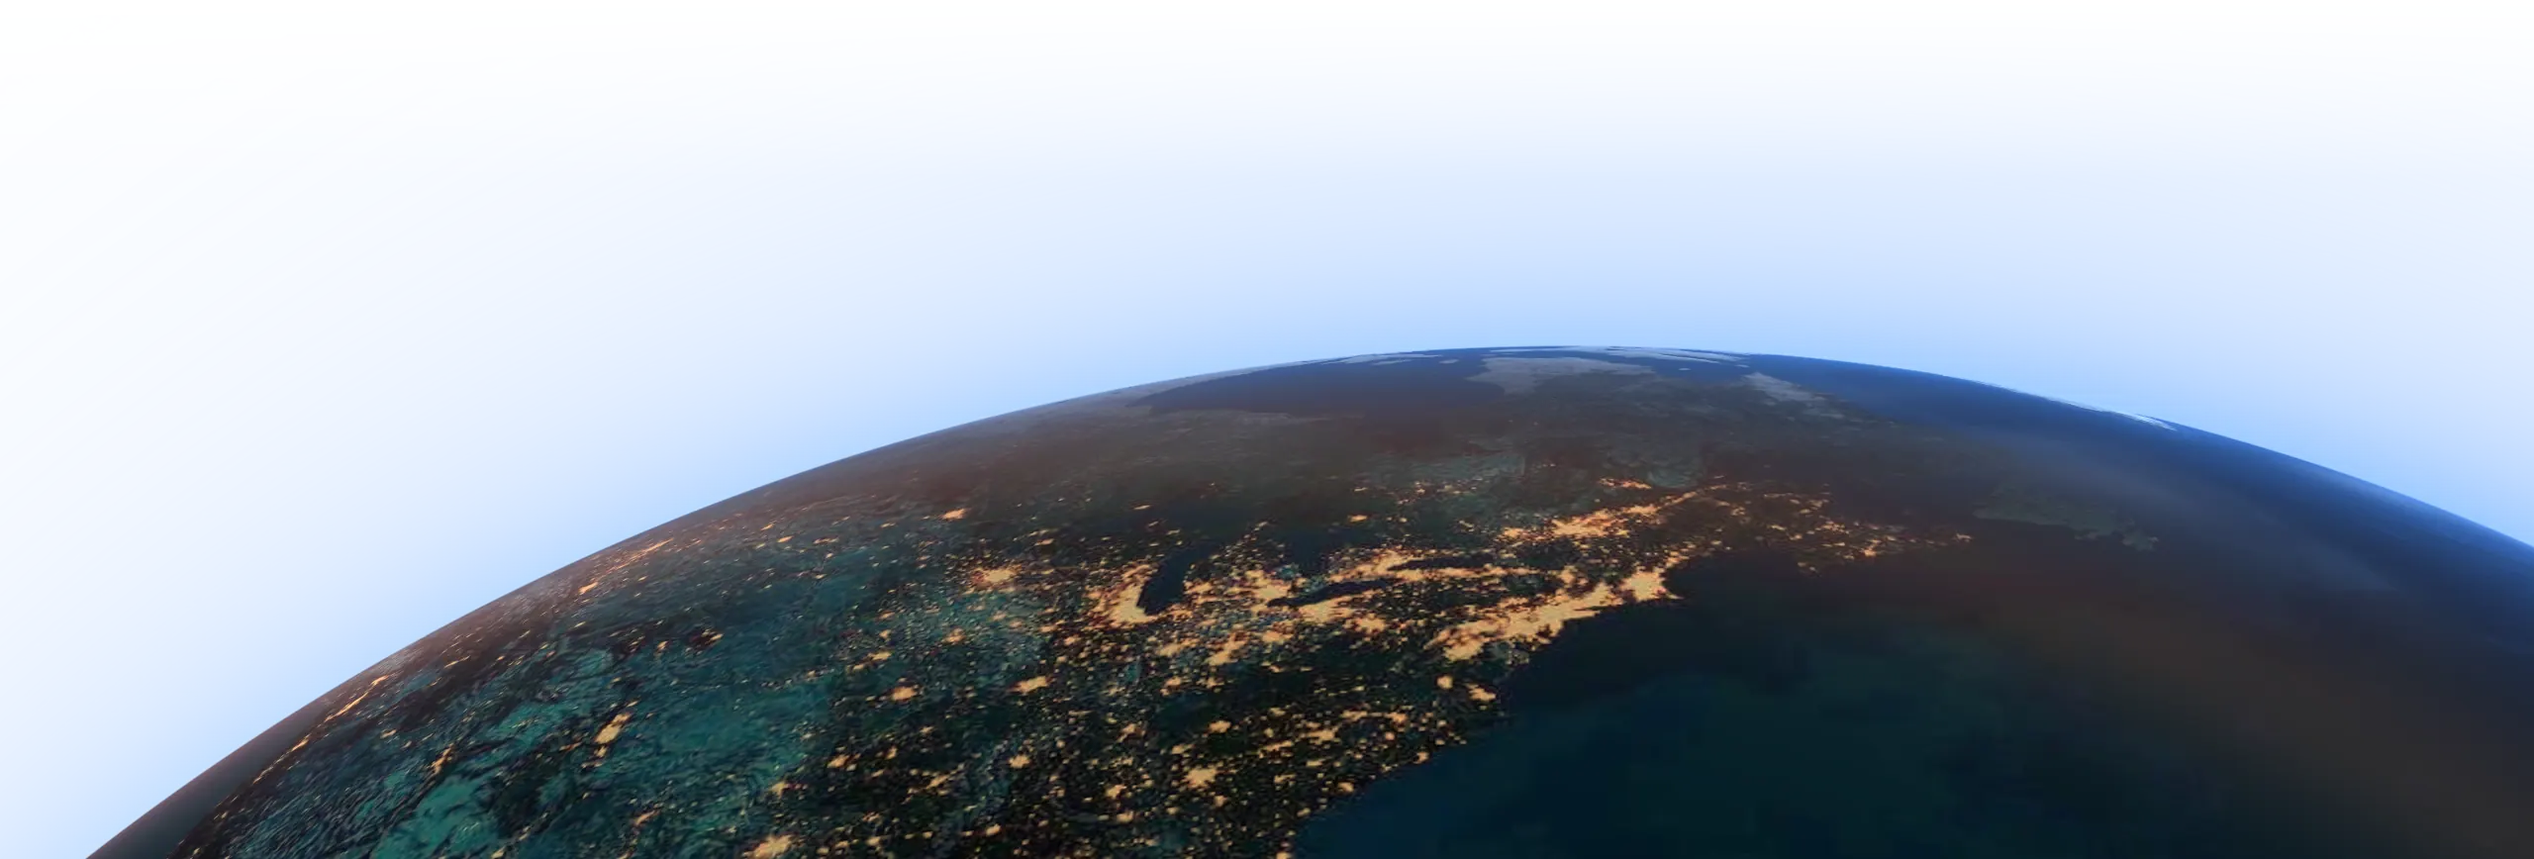
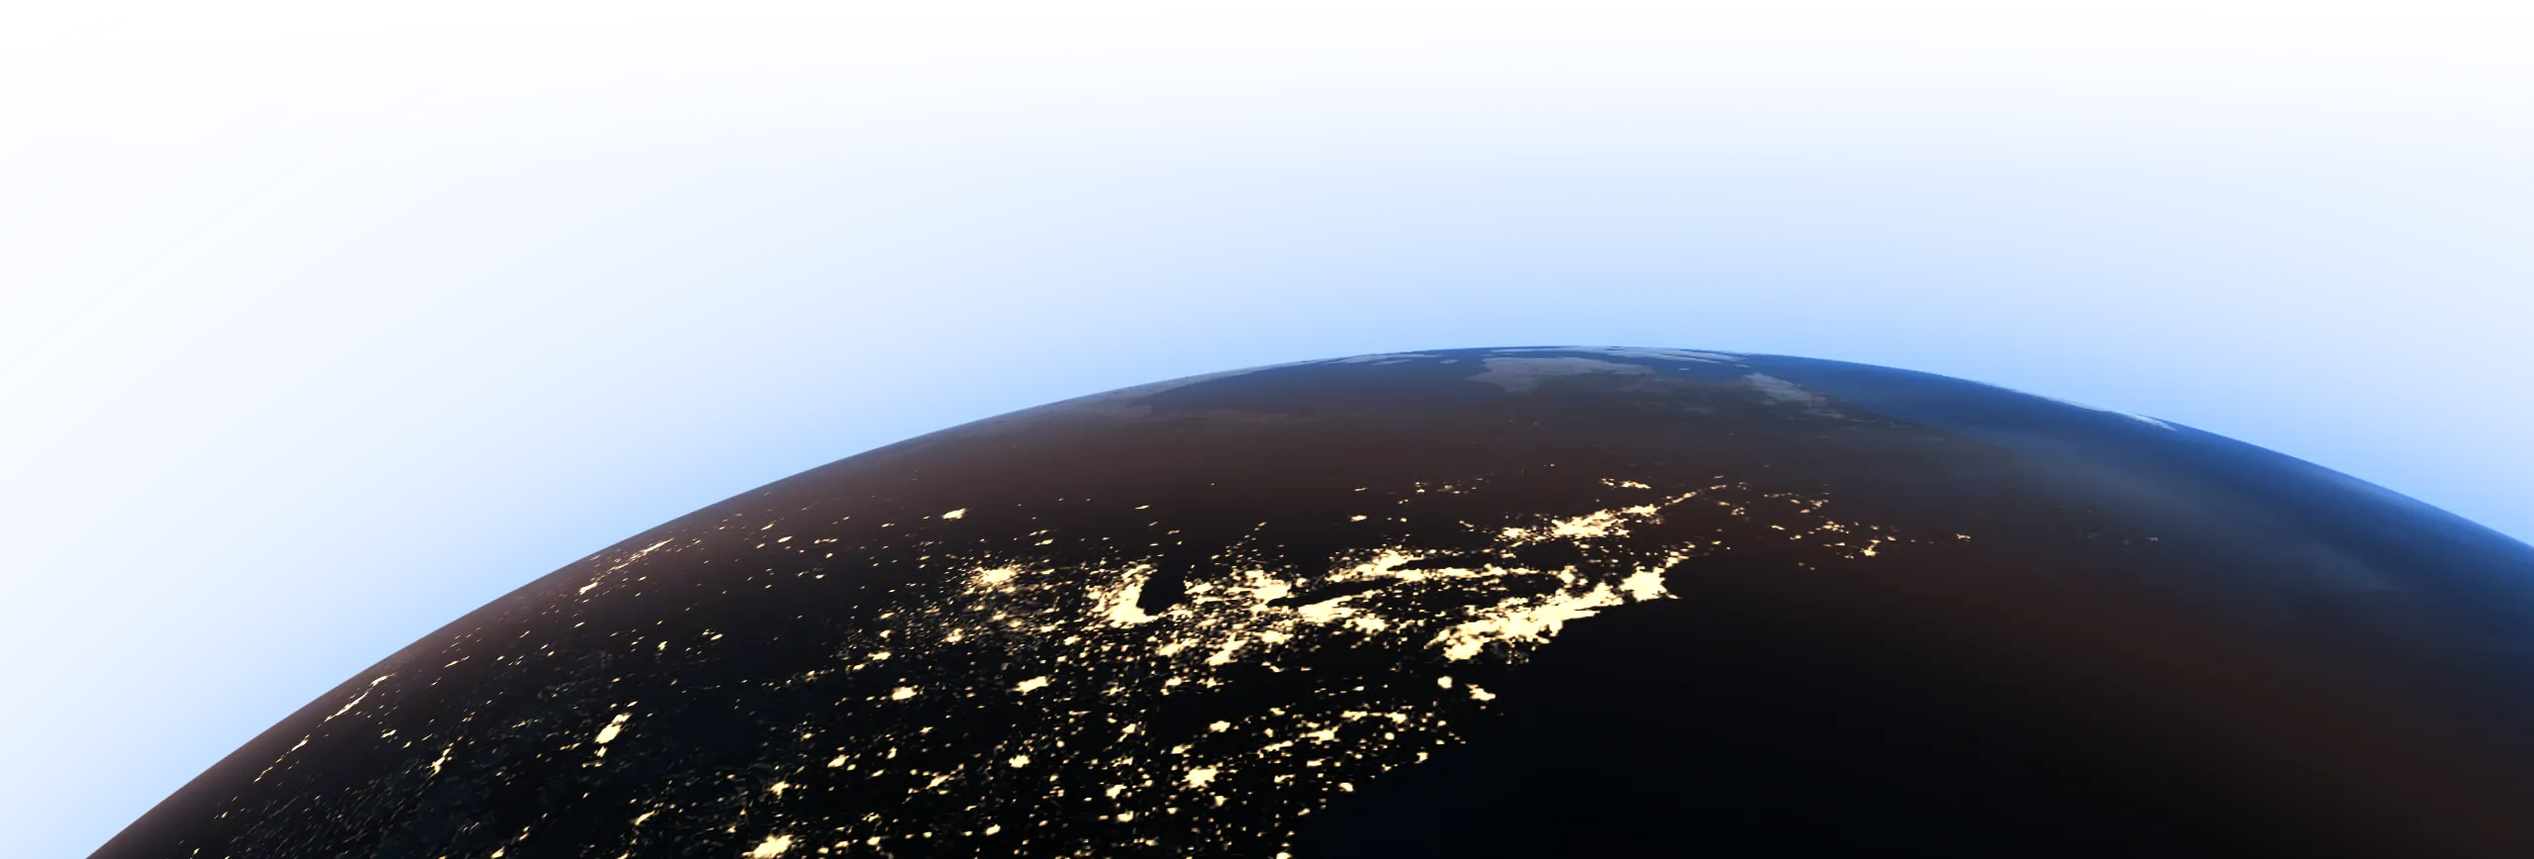
Open on the whole of North America, with Montréal's arcs across Canada (#29)
* New home page: engraved paper, live guilloche, one dollar drawn by the scroll; ÉPICENTRE on the site and the resume

* index.html is now written whole by scripts/home.py on its own assets/home.css and assets/home.js:
  a guilloche rosette engraved live behind the name (follows the pointer), a ticker of every
  project's headline figure, the dollar from 1960 drawn as the reader scrolls with the market's
  real falls marked, one row per project with an engraved seal and a figure that counts up,
  the four rules, a timeline, and contact. Bodoni Moda and Public Sans, self-hosted (OFL).
  Light and dark themes; full page without JavaScript; final frame under reduced motion.
* ÉPICENTRE (poly-datathon-2026, PolyFinances Datathon 2026) joins the site through a new
  data/projects.json "more" list, its headline figure citing docs/review_technical.md.
* Resume: ÉPICENTRE added to both versions; certifications folded into Education to keep one page.
* check_site.py checks the new home page (sections, the extra project, version stamps, reduced
  motion); check_layout.py checks that the pinned chart fits at all 14 screen sizes.
* voyage.html and the project pages are unchanged.

Claude-Session: https://claude.ai/code/session_01VVdSRZsUbLxHJtxqDuHw5E

* Whole site redesigned: mission control over a live Earth

* Home page (scripts/home.py, assets/home.css, assets/home.js): a dotted WebGL Earth built from
[…]

Changed region(s): [[0.0625, 0.5288, 0.9375, 1.0]]

diff --git a/assets/home.js b/assets/home.js
@@ -30,12 +30,16 @@
      share of the screen's shorter side. horizon: the centre sits below the screen and only the curve of the
      Earth shows. fx: what is drawn over it. spin: degrees a second it keeps turning on its own. */
   const MTL = [45.5, -73.57], CAIRO = [30.04, 31.24];
+  /* where Canada's pension funds and asset managers work: lat, lon, name, label side, label nudge */
+  const HUBS = [[43.65, -79.38, "Toronto", -1, 14], [49.28, -123.12, "Vancouver", -1, 0],
+    [51.05, -114.07, "Calgary", 1, 0], [44.65, -63.57, "Halifax", 1, 14]];
   const PLACES = {
     fed: [38.9, -77.04, "Federal Reserve"], boc: [45.42, -75.7, "Bank of Canada"], opec: [48.21, 16.37, "OPEC, Vienna"],
   };
   const wide = () => window.innerWidth > 1000;
+  const tall = () => window.innerHeight > window.innerWidth * 0.8;
   const SCENES = {
-    horizon:   { lon: -73.6, lat: -22, x: 0.5, y: 0, r: 0, horizon: 1, fx: { home: 1 }, spin: 0 },
+    horizon:   { lon: -90, lat: 38, mlat: 12, x: 0.7, y: 0.54, r: 0.4, fx: { home: 1, open: 1 }, spin: 0, open: 1 },
     rise:      { lon: -40, lat: 18, x: 0.72, y: 0.5, r: 0.4, fx: {}, spin: 4 },
     dpc:       { lon: -97, lat: 36, x: 0.7, y: 0.5, r: 0.44, fx: { dpc: 1 }, spin: 0 },
     pension:   { lon: -30, lat: 22, x: 0.27, y: 0.5, r: 0.3, fx: { futures: 1 }, spin: 2, flip: 1 },
@@ -54,6 +58,8 @@
   /* Where the sun is, as seen by the reader: on the right for the missions (day on the right, city lights on
      the left, under the words); behind the Earth's edge for the opening and the close, a dawn along the curve. */
   const SUN = [0.86, 0.32, 0.1], SUN_L = [-0.86, 0.32, 0.1], DAWN = [0.42, 0.3, -0.86], NIGHT = [-0.9, 0.25, -0.35];
+  /* the opening: the whole of North America in daylight, the evening reaching the east coast, its cities lit */
+  const OPEN = [-0.88, 0.38, 0.0];
   const view = { lon: -73.6, lat: -12, cx: 0, cy: 0, R: 0, dim: 1, fx: {}, spin: 0, sun: SUN.slice() };
   const want = { lon: -73.6, lat: -12, cx: 0, cy: 0, R: 0, dim: 1, fx: {}, sun: SUN.slice() };
   let W = 0, H = 0, dpr = 1, gl = null, fxc = null, g = null, prog = null, back = null, buf = null, spinLon = 0;
@@ -62,6 +68,11 @@
 
   function place(s) {
     const m = Math.min(W, H);
+    if (s.open && !wide()) {
+      if (!tall()) return { cx: W * 0.74, cy: H * 0.55, R: H * 0.44 };  /* a small landscape window: the Earth beside the words */
+      const R = Math.min(W * 0.62, H * 0.3);                              /* a phone: North America rises from the foot of the screen */
+      return { cx: W * 0.5, cy: H - R * 0.15, R };
+    }
     if (s.horizon) {
       const R = Math.max(W, H) * (wide() ? 0.95 : 1.5);
       return { cx: W * (wide() ? 0.62 : 0.5), cy: H * (wide() ? 0.64 : 0.7) + R, R };
@@ -160,12 +171,13 @@
           cl=smoothstep(.46,.76,cl)*(.6+.4*abs(w.y))*.92;
           float spec=pow(max(dot(n,normalize(L+vec3(0.,0.,1.))),0.),320.)*water*day*(1.-cl);
           vec3 lit=cDay*(.04+1.05*lit0)+vec3(1.,.92,.8)*spec*.2;
-          vec3 lights=cNight*vec3(1.,.8,.52)*1.9*(1.-day)*(1.-cl*.75);
+          /* city lights only: the red channel holds the lights, the picture's blue-green landscape stays faint */
+          vec3 lights=(vec3(1.,.76,.48)*smoothstep(.05,.5,cNight.r)*1.9+cNight*.14)*(1.-day)*(1.-cl*.75);
           vec3 surface=lit*day+lights+cDay*.018;
           vec3 cloudCol=vec3(.92,.95,1.)*(.03+1.08*max(ndl,0.));
           surface=mix(surface,cloudCol,cl*day+cl*.12*(1.-day));
           float band=exp(-pow(ndl/.075,2.));
-          surface+=vec3(1.,.45,.16)*band*.085*(1.-cl*.5);
+          surface+=vec3(1.,.45,.16)*band*.05*(1.-cl*.5);
           photo=mix(base,surface,T);
         }
         float rim=pow(1.-n.z,2.6);
@@ -394,7 +406,17 @@
     }
     g.stroke();
   }
-  function marker(M, lat, lon, label, w, t, side = 1) {
+  function arc(M, from, to, rise) {
+    const a = unit(...from), b = unit(...to);
+    const omega = Math.acos(clamp(a[0] * b[0] + a[1] * b[1] + a[2] * b[2], -1, 1)), so = Math.sin(omega);
+    const pts = [];
+    for (let k = 0; k <= 64; k += 1) {
+      const s = k / 64, w1 = Math.sin((1 - s) * omega) / so, w2 = Math.sin(s * omega) / so, h = 1 + rise * omega * Math.sin(Math.PI * s);
+      pts.push(project(M, [(w1 * a[0] + w2 * b[0]) * h, (w1 * a[1] + w2 * b[1]) * h, (w1 * a[2] + w2 * b[2]) * h]));
+    }
+    return pts;
+  }
+  function marker(M, lat, lon, label, w, t, side = 1, dy = 0) {
     const p = project(M, unit(lat, lon));
     if (p.z < 0.08 || w < 0.02) return;
     const a = w * clamp(p.z * 3);
@@ -407,7 +429,7 @@
       g.font = "500 11px Barlow, Arial, sans-serif";
       g.fillStyle = `rgba(244,245,247,${a})`;
       g.textAlign = side > 0 ? "left" : "right";
-      g.fillText(label.toUpperCase().split("").join(String.fromCharCode(8202)), p.x + side * 14, p.y + 4);
+      g.fillText(label.toUpperCase().split("").join(String.fromCharCode(8202)), p.x + side * 14, p.y + 4 + dy);
     }
   }
 
@@ -429,9 +451,9 @@
     g.restore();
     const f = view.fx;
     if (!gl && earth.ready) draw2D(M, view.dim);
-    // Montréal, home, and a satellite crossing above the curve of the Earth
+    // Montréal, home, and a satellite crossing over the Earth
     if (f.home > 0.02) {
-      marker(M, MTL[0], MTL[1], "Montréal", f.home, t);
+      marker(M, MTL[0], MTL[1], "Montréal", f.home, t, 1, -8);
       const inc = 0.9, a0 = (still ? 0.4 : t * 0.045) % (Math.PI * 2);
       const at = (a) => { const r = 1.035; const p = [Math.cos(a) * r, Math.sin(a) * Math.sin(inc) * r, Math.sin(a) * Math.cos(inc) * r]; return { x: view.cx + p[0] * view.R, y: view.cy - p[1] * view.R, hide: p[2] < 0 && Math.hypot(p[0], p[1]) < 1 }; };
       const Mx = rotation(view.lat * 0.2, 0);
@@ -443,6 +465,18 @@
         g.fillStyle = `rgba(220,235,255,${f.home * (1 - k / 40) * (k ? 0.35 : 1)})`;
         g.beginPath(); g.arc(p.x, p.y, k ? 1 : 1.8, 0, Math.PI * 2); g.fill();
       }
+    }
+    // the opening: from Montréal to every city that runs Canada's pensions and investments
+    if (f.open > 0.02) {
+      HUBS.forEach(([lat, lon, name, side, dy], i) => {
+        const pts = arc(M, MTL, [lat, lon], 0.14);
+        g.strokeStyle = `rgba(142,197,255,${0.75 * f.open})`; g.lineWidth = 1.4; strokeFront(pts, 0.05);
+        if (!still) {
+          const k = Math.floor((((t * 0.18) + i * 0.21) % 1) * (pts.length - 1)), q = pts[k];
+          if (q.z > 0.05) { g.fillStyle = `rgba(244,245,247,${0.9 * f.open})`; g.beginPath(); g.arc(q.x, q.y, 2.2, 0, Math.PI * 2); g.fill(); }
+        }
+        marker(M, lat, lon, name, f.open, t + i * 0.37, side, dy);
+      });
     }
     if (f.dpc > 0.02) marker(M, 39.5, -98.35, "30 US industries, 1960 to 2026", f.dpc, t);
     // World Shock Lab: rings leave the three announcers
@@ -546,13 +580,15 @@
     const A = SCENES[a.name] || SCENES.rise, B = SCENES[b.name] || SCENES.rise;
     const pa = place(A), pb = place(B);
     let dl = ((B.lon - A.lon + 540) % 360) - 180;
-    want.lon = A.lon + dl * t; want.lat = lerp(A.lat, B.lat, t);
+    const la = (S) => (!wide() && tall() && S.mlat != null ? S.mlat : S.lat);
+    want.lon = A.lon + dl * t; want.lat = lerp(la(A), la(B), t);
     want.cx = lerp(pa.cx, pb.cx, t); want.cy = lerp(pa.cy, pb.cy, t); want.R = lerp(pa.R, pb.R, t);
-    want.dim = lerp(A.dim || 1, B.dim || 1, t) * (wide() || A.horizon || B.horizon ? 1 : 0.62);
+    want.dim = lerp(A.dim || 1, B.dim || 1, t) * (wide() || A.horizon || B.horizon || A.open || B.open ? 1 : 0.62);
     want.spin = lerp(A.spin, B.spin, t);
     want.flip = wide() ? lerp(A.flip || 0, B.flip || 0, t) : 0;
-    want.hz = lerp(A.horizon ? 1 : 0, B.horizon ? 1 : 0, t);
-    const sun = (S) => (S.horizon ? DAWN : S.flip && wide() ? SUN_L : SUN);  // the night side always sits under the words
+    const hz = (S) => (S.horizon ? 1 : S.open ? 0.55 : 0);
+    want.hz = lerp(hz(A), hz(B), t);
+    const sun = (S) => (S.open ? OPEN : S.horizon ? DAWN : S.flip && wide() ? SUN_L : SUN);  // the night side always sits under the words
     const sa = sun(A), sb = sun(B);
     want.sun = [0, 1, 2].map((i) => lerp(sa[i], sb[i], t));
     const fx = {};
@@ -560,7 +596,8 @@
     want.fx = fx;
   }
 
-  /* The opening shot: the camera starts over Montréal at night and pulls back to the curve of the Earth. */
+  /* The opening shot: the camera starts over Montréal at night and pulls back until the whole of Canada and the
+     United States is in view, at dusk, with an arc from Montréal to each city where Canada's pensions are run. */
   let last = performance.now(), first = true, introFrom = 0;
   function frame(now) {
     const dt = Math.min(0.05, (now - last) / 1000); last = now;

diff --git a/index.html b/index.html
@@ -31,10 +31,10 @@
   <link rel="preload" href="assets/fonts/barlow-600.woff2" as="font" type="font/woff2" crossorigin>
   <link rel="preload" href="assets/fonts/barlow-400.woff2" as="font" type="font/woff2" crossorigin>
   <link rel="preload" href="assets/earth.bin" as="fetch" crossorigin>
-  <link rel="stylesheet" href="assets/home.css?v=21dad2150c">
+  <link rel="stylesheet" href="assets/home.css?v=187cd8b21e">
   <script>document.documentElement.classList.replace("no-js","js")</script>
   <script src="assets/vendor/lenis.min.js" defer></script>
-  <script src="assets/home.js?v=21dad2150c" defer></script>
+  <script src="assets/home.js?v=187cd8b21e" defer></script>
   <script type="application/ld+json">
   {
     "@context": "https://schema.org",

diff --git a/scripts/make_og_home.py b/scripts/make_og_home.py
@@ -1,8 +1,8 @@
 #!/usr/bin/env python3
 """Draw the home page's share image (assets/og.png, 1200x630) from the home page itself.
 
-The card is the opening of index.html at 1200x630 once the camera has pulled back from Montréal: the
-name, the line under it, and the curve of the Earth at night. The navigation, buttons and countdown are
+The card is the opening of index.html at 1200x630, at the end of the pull-back from Montréal: the
+name, the line under it, and North America at dusk with Montréal's arcs across Canada. The navigation, buttons and countdown are
 hidden for the card. Nothing on it is typed here, so it never says something the page does not.
 
 Run:  python3 scripts/make_og_home.py      (needs Playwright's Chromium; set CHROMIUM to use one already installed)
@@ -36,10 +36,10 @@ def main() -> None:
         if os.environ.get("CHROMIUM"):
             launch["executable_path"] = os.environ["CHROMIUM"]
         browser = p.chromium.launch(**launch)
-        page = browser.new_page(viewport={"width": 1200, "height": 630}, device_scale_factor=1)
+        page = browser.new_page(viewport={"width": 1200, "height": 630}, device_scale_factor=1, reduced_motion="reduce")
         page.goto(f"{base}/", wait_until="networkidle")
         page.add_style_tag(content=CARD)
-        page.wait_for_timeout(9000)  # the opening shot: from Montréal at night back to the curve of the Earth
+        page.wait_for_timeout(6000)  # the pictures arrive; under reduced motion the Earth is drawn at the end of the opening shot
         out = ROOT / "assets" / "og.png"
         page.screenshot(path=str(out))
         browser.close()

diff --git a/scripts/make_limb.py b/scripts/make_limb.py
@@ -1,7 +1,7 @@
 #!/usr/bin/env python3
 """Draw assets/earth/limb.webp: the curve of the Earth at night, for the foot of every project page.
 
-It is the home page's own Earth (NASA imagery, drawn by assets/home.js) at the opening shot, photographed
+It is the home page's own Earth (NASA imagery, drawn by assets/home.js) at its closing shot, photographed
 in a wide window with everything else hidden and the sky left transparent, then cropped to the band where
 the Earth is. The project pages lay it along the bottom of the screen (assets/site.css), so the whole
 site stands on the same planet.
@@ -41,6 +41,7 @@ def main() -> None:
         page = browser.new_page(viewport={"width": W, "height": H}, device_scale_factor=1, reduced_motion="reduce")
         page.goto(f"{base}/", wait_until="networkidle")
         page.add_style_tag(content=HIDE)
+        page.evaluate("window.scrollTo(0, document.documentElement.scrollHeight)")  # the close: the horizon at dawn
         page.wait_for_timeout(6000)  # the pictures arrive; under reduced motion the Earth is drawn in its final place
         png = page.screenshot(omit_background=True)
         browser.close()

diff --git a/scripts/home.py b/scripts/home.py
@@ -1,7 +1,8 @@
 """The home page (index.html): mission control for a portfolio, over a live Earth.
 
 One dotted Earth (assets/earth.json, real coastlines) stays behind the whole page and flies to each
-section's place as the reader scrolls: the curve of the Earth seen from space at the opening, the United States for the
+section's place as the reader scrolls: North America at dusk at the opening (arcs from Montréal to Toronto,
+Vancouver, Calgary and Halifax: open to any of them), the United States for the
 wealth study, rings leaving the Fed, the Bank of Canada and OPEC for World Shock Lab, Montréal for
 ÉPICENTRE, and back to the horizon at the end. assets/home.js draws it (WebGL) and runs the counters
 and countdowns; assets/home.css sets the page.

diff --git a/README.md b/README.md
@@ -4,7 +4,7 @@ Portfolio of Sherif Morsi, a third-year Computer Science student at Concordia Un
 
 **Live:** https://shmorsi.github.io/
 
-**How the site is laid out.** The home page (`index.html`) is mission control over a live Earth. It is written whole by `scripts/home.py` (called from `scripts/build_home.py`) on its own stylesheet and script, `assets/home.css` and `assets/home.js`. One dotted Earth (WebGL, from `assets/earth.bin`: real Natural Earth coastlines, written by `scripts/make_earth.py`) stays behind the page and flies to each section's place as the reader scrolls: the curve of the Earth at the opening, the United States for the wealth study, orbits for the Pension Lab's simulated futures, rings leaving the Fed, the Bank of Canada and OPEC for World Shock Lab, a sweep for the forecasting model, a shell for Aurvane, Montréal for ÉPICENTRE, Montréal to Cairo for the flight log. Each mission says in words what its picture is. Countdowns run to January 2027 (availability) and to World Shock Lab's next live forecasts. Every figure is a data-bind into `data/projects.json`; the page reads in full without JavaScript, and under reduced motion the Earth holds still. Once loaded, the Earth is photographic: NASA Blue Marble (day) and Black Marble (city lights) imagery and an ocean mask (`assets/earth/`, public domain, from the three-globe package's examples), with clouds made from noise in the shader, a day/night line, an opening shot that pulls back from Montréal, and a webcast strip along the foot of the screen (the mission in view, the camera's latitude, longitude and altitude, and the page as a launch timeline). On a large screen the 4096 pixel pictures replace the 2048 ones; with WebGL 2 they are mipmapped and anisotropically filtered, a relief map (`assets/earth/relief.jpg`) leans the light over mountains, and the edge of the Earth is anti-aliased. With a mouse the reader can grab the Earth and turn it; it keeps its momentum, then eases back to the scene (on a phone the page scrolls instead). A faint Milky Way is painted once behind the stars, and titles rise word by word. The project pages stand on the same Earth: `scripts/make_limb.py` photographs the home page's horizon into `assets/earth/limb.webp`, laid along the foot of each page by `assets/site.css`, where the study's white matplotlib charts are also printed in negative in the dark theme. Smooth scrolling is Lenis (`assets/vendor/lenis.min.js`, MIT). `scripts/make_og_home.py` draws `assets/og.png` from the page itself. The project pages and `voyage.html` share the same tokens and type (Barlow, `assets/site.css`), with the illustrated land, noise field and grain switched off (`CLEAN` in `assets/site.js`). `voyage.html` (the long way round) tells every stop as a pinned chapter; it is still written by `scripts/build_home.py` from its template (`KEEP`), and `scripts/check_site.py` checks both pages against a fresh build. Sections below that describe the chapters, the stage of points and the cards describe `voyage.html`.
+**How the site is laid out.** The home page (`index.html`) is mission control over a live Earth. It is written whole by `scripts/home.py` (called from `scripts/build_home.py`) on its own stylesheet and script, `assets/home.css` and `assets/home.js`. One dotted Earth (WebGL, from `assets/earth.bin`: real Natural Earth coastlines, written by `scripts/make_earth.py`) stays behind the page and flies to each section's place as the reader scrolls: North America at dusk at the opening, with arcs from Montréal to Toronto, Vancouver, Calgary and Halifax (open to work in any of them), the United States for the wealth study, orbits for the Pension Lab's simulated futures, rings leaving the Fed, the Bank of Canada and OPEC for World Shock Lab, a sweep for the forecasting model, a shell for Aurvane, Montréal for ÉPICENTRE, Montréal to Cairo for the flight log. Each mission says in words what its picture is. Countdowns run to January 2027 (availability) and to World Shock Lab's next live forecasts. Every figure is a data-bind into `data/projects.json`; the page reads in full without JavaScript, and under reduced motion the Earth holds still. Once loaded, the Earth is photographic: NASA Blue Marble (day) and Black Marble (city lights) imagery and an ocean mask (`assets/earth/`, public domain, from the three-globe package's examples), with clouds made from noise in the shader, a day/night line, an opening shot that pulls back from Montréal to the whole continent, and a webcast strip along the foot of the screen (the mission in view, the camera's latitude, longitude and altitude, and the page as a launch timeline). On a large screen the 4096 pixel pictures replace the 2048 ones; with WebGL 2 they are mipmapped and anisotropically filtered, a relief map (`assets/earth/relief.jpg`) leans the light over mountains, and the edge of the Earth is anti-aliased. With a mouse the reader can grab the Earth and turn it; it keeps its momentum, then eases back to the scene (on a phone the page scrolls instead). A faint Milky Way is painted once behind the stars, and titles rise word by word. The project pages stand on the same Earth: `scripts/make_limb.py` photographs the home page's closing horizon into `assets/earth/limb.webp`, laid along the foot of each page by `assets/site.css`, where the study's white matplotlib charts are also printed in negative in the dark theme. Smooth scrolling is Lenis (`assets/vendor/lenis.min.js`, MIT). `scripts/make_og_home.py` draws `assets/og.png` from the page itself. The project pages and `voyage.html` share the same tokens and type (Barlow, `assets/site.css`), with the illustrated land, noise field and grain switched off (`CLEAN` in `assets/site.js`). `voyage.html` (the long way round) tells every stop as a pinned chapter; it is still written by `scripts/build_home.py` from its template (`KEEP`), and `scripts/check_site.py` checks both pages against a fresh build. Sections below that describe the chapters, the stage of points and the cards describe `voyage.html`.
 
 **Beyond the three research projects**, `data/projects.json` has a `more` list for work shown on the home page only. It holds ÉPICENTRE ([poly-datathon-2026](https://github.com/shmorsi/poly-datathon-2026), [demo](https://shmorsi.github.io/poly-datathon-2026/)), a team entry to the PolyFinances Datathon 2026: each entry names the file its headline figure comes from.
 
